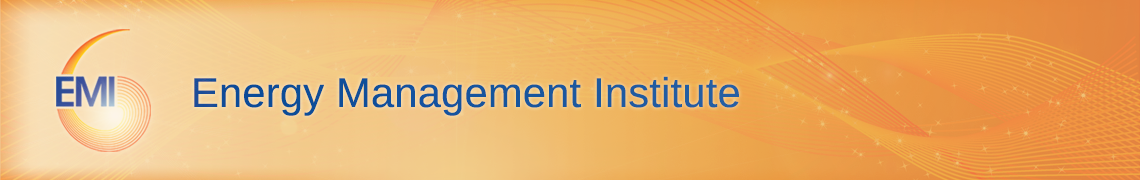
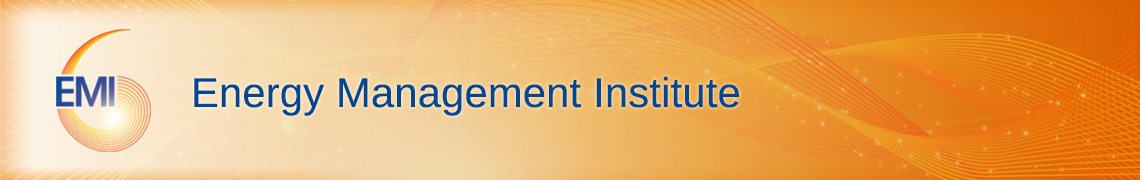
design changes - footer, partners

diff --git a/app/styles/main.scss b/app/styles/main.scss
@@ -14,38 +14,36 @@
     background-image: none
 }
 
-.img-thumbnail-partners {
-  padding: 4px;
-  line-height: 1.42857;
-  background-color: #fff;
-  border: 1px solid #ddd;
-  border-radius: 4px;
-  margin-right: 10px;
-  -webkit-transition: all .2s ease-in-out;
-  transition: all .2s ease-in-out;
-  display: inline-block;
-  width: 120px;
-  height: 50px;  
-}
+// .img-thumbnail-partners {
+//   padding: 4px;
+//   line-height: 1.42857;
+//   background-color: #fff;
+//   border: 1px solid #ddd;
+//   border-radius: 4px;
+//   margin-right: 10px;
+//   display: inline-block;
+//   width: 120px;
+//   height: 50px;  
+// }
 
-.img-image-teams {
-  padding: 4px;
-  line-height: 1.42857;
-  background-color: #fff;
-  border: 1px solid #ddd;
-  border-radius: 4px;
-  margin-right: 10px;
-  -webkit-transition: all .2s ease-in-out;
-  transition: all .2s ease-in-out;
-  display: inline-block;
-  width: 140px;
-  height: 140px; 
-  float: right; 
-}
+// .img-image-teams {
+//   padding: 4px;
+//   line-height: 1.42857;
+//   background-color: #fff;
+//   border: 1px solid #ddd;
+//   border-radius: 4px;
+//   margin-right: 10px;
+//   -webkit-transition: all .2s ease-in-out;
+//   transition: all .2s ease-in-out;
+//   display: inline-block;
+//   width: 140px;
+//   height: 140px; 
+//   float: right; 
+// }
 
-.img-thumbnail-partners:hover {
-  border: 2.5px solid #d0d0d0;
-}
+// .img-thumbnail-partners:hover {
+//   border: 2.5px solid #d0d0d0;
+// }
 
 html,body {
   height:100%;
@@ -55,9 +53,15 @@ html,body {
   min-height: 100%; 
 }
 
+.wrap {
+  min-height: 100%; 
+  background-image: url(/images/emi-background.jpg);
+  background-size: cover;
+}
+
 #main {
   overflow:auto;
-  padding-bottom:150px; /* this needs to be bigger than footer height*/
+  padding-bottom:100px; /* this needs to be bigger than footer height*/
 }
 
 .text-snippet{

diff --git a/app/index.html b/app/index.html
@@ -16,28 +16,32 @@
       <link href='https://fonts.googleapis.com/css?family=Arimo:400,700' rel='stylesheet' type='text/css'>
   </head>
   <body>
-    <div class="visible-md visible-lg">
-        <div class="container">
-           <div ui-view="banner"></div>
-        </div>
-    </div>
-
-    <div id="wrap">
-      <div id="main" class="container">
-        <div ui-view="menu"></div>
-        <div class="row">
-          <div class="col-sm-12 col-md-8">
-            <div ui-view="content"></div>
+    <div class="wrap">
+      <div class="visible-md visible-lg">
+          <div class="container">
+             <div ui-view="banner"></div>
           </div>
-          <div class="col-sm-12 col-md-4">
-            <div ui-view="right-column"></div>
+      </div>
+
+      <div id="wrap">
+        <div id="main" class="container">
+          <div ui-view="menu"></div>
+          <div class="row">
+            <div class="col-sm-12 col-md-8">
+              <div ui-view="content"></div>
+            </div>
+            <div class="col-sm-12 col-md-4">
+              <div ui-view="right-column"></div>
+            </div>
           </div>
         </div>
       </div>
+
+      
+        <div ui-view="footer"></div>
+      
+
+      <script src="js/main.js"></script>
     </div>
-
-    <div ui-view="footer"></div>
-
-    <script src="js/main.js"></script>
   </body>
 </html>

diff --git a/app/styles/_global-styles.scss b/app/styles/_global-styles.scss
@@ -1,7 +1,7 @@
 /* Global */
 
 body {
-background:#f5f5f5;
+background-color:#f5f5f5;
 font-family: 'Open Sans', sans-serif;
 }
 
@@ -220,7 +220,7 @@ a img:hover {
 
 .footer {
   background-color: #252525;
-  background-image: url(/images/emi-footer.png); 
+  background-image: url(/images/emi-footer-2.png); 
   background-size: contain;
   color: #ddd;
   display: inline;
@@ -410,6 +410,7 @@ p.ng-binding {
   margin-bottom: 10px;
   height: 92px;
   overflow: hidden;
+  background-color: #fff;
 }
 
 .media-object {
@@ -473,12 +474,12 @@ p.ng-binding {
 
 //Partners
 
-.partner {
-  border:1px solid #DCDCDC;
-  margin: 5px;
-  border-radius: 1px;
-  padding: 5px;
-}
+// .partner {
+//   border:1px solid #DCDCDC;
+//   margin: 5px;
+//   border-radius: 1px;
+//   padding: 5px;
+// }
 
 
 //Arcticles
@@ -517,6 +518,7 @@ p.ng-binding {
     margin-bottom: 2%;
     text-align: justify
 }
+
 //Single Page Content
 
 .single_page_content {

diff --git a/app/views/fragments/footer.html b/app/views/fragments/footer.html
@@ -1,6 +1,7 @@
-<footer class="footer">       
+<footer class="footer">  
+    <div class="container">     
       <div class="row">
-        <div class="col-lg-10 col-lg-offset-1 col-md-12">
+        <div class="col-lg-12">
           <div class="col-lg-4 col-md-4 col-sm-4">
             <div class="footer_widget">
               <h2><a href="#" ui-sref="app.menu.home" onclick="scroll(0,0)"><i class="fa fa-home"></i>&nbsp;{{'HOME' | translate }}</h2>
@@ -58,5 +59,6 @@
             </div>
           </div>
         </div>
-      </div>           
-    </footer>
+      </div> 
+  </div>          
+</footer>

diff --git a/app/views/fragments/partners.html b/app/views/fragments/partners.html
@@ -1,6 +1,6 @@
 <div ng-controller="AllPartnersCtrl" layout="column">
 		<div ng-repeat="partner in allPartners" layout="column" layout-fill>
-			<div class="partner">
+			<div class="article-event flat partner">
 			    <div class="media">
 			      <a class="media-left" ng-href= "{{partner.site}}" target="_blank">
 			        <img class="media-object" class="img-thumbnail-partners" ng-src="{{partner.tumb}}">
